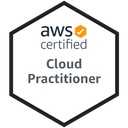
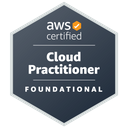
Add LFCS & LFCA & update badges

diff --git a/README.md b/README.md
@@ -11,12 +11,14 @@
 
 <!-- # 6 trophies a 141x141 -->
 
-[![KCNA: Kubernetes and Cloud Native Associate](assets/KCNA.png)](https://www.credly.com/badges/cd70dd6b-b7df-4d24-a3c4-02990dc9e3ec/public_url)
-[![CKAD: Certified Kubernetes Application Developer](assets/CKAD.png)](https://www.credly.com/badges/0e7cee9c-8955-426f-b80b-42b7c689b761/public_url)
 [![CKA: Certified Kubernetes Administrator](assets/CKA.png)](https://www.credly.com/badges/00a873b1-c4b1-4b5d-b4b0-9da4257d646b/public_url)
-[![HashiCorp Certified: Terraform Associate](assets/Terraform_Associate.png)](https://www.credly.com/badges/ecc5c6c7-6756-456c-afe5-8b5b65f14dac/public_url)
+[![CKAD: Certified Kubernetes Application Developer](assets/CKAD.png)](https://www.credly.com/badges/0e7cee9c-8955-426f-b80b-42b7c689b761/public_url)
+[![KCNA: Kubernetes and Cloud Native Associate](assets/KCNA.png)](https://www.credly.com/badges/cd70dd6b-b7df-4d24-a3c4-02990dc9e3ec/public_url)
+[![LFCS: Linux Foundation Certified Systems Administrator](assets/LFCS.png)](https://www.credly.com/badges/4ca898fa-d11b-4960-8619-f679814f7e4c/public_url)
+[![LFCA: Linux Foundation Certified IT Associate](assets/LFCA.png)](https://www.credly.com/badges/eef0fcf1-74ff-40c1-b632-7a200e08487d/public_url)
 
-[![LPIC-1: Linux Professional Institute Certification 1](assets/LPIC-1.png)](https://cs.lpi.org/caf/Xamman/certification/verify/LPI000354073/l2t2xwgudp)
-[![AWS Certified Cloud Practitioner](assets/AWS_CLF-C01.png)](https://www.credly.com/badges/337e9f61-f74f-43ab-a2c6-5a969211ebb9/public_url)
-[![AWS Certified Solutions Architect – Associate](assets/AWS_SAA-C01.png)](https://www.credly.com/badges/1231f36f-b2d6-4f38-b11d-9c3db00760af/public_url)
+[![HashiCorp Certified: Terraform Associate](assets/Terraform_Associate.png)](https://www.credly.com/badges/ecc5c6c7-6756-456c-afe5-8b5b65f14dac/public_url)
 [![Microsoft Certified: Azure Fundamentals](assets/AZ_Fundamentals.png)](https://www.credly.com/badges/f8532188-2e6b-4e23-a9be-8c41b42c6de6/public_url)
+[![LPIC-1: Linux Professional Institute Certification 1](assets/LPIC-1.png)](https://cs.lpi.org/caf/Xamman/certification/verify/LPI000354073/l2t2xwgudp)
+[![AWS Certified Solutions Architect – Associate](assets/AWS_SAA-C01.png)](https://www.credly.com/badges/1231f36f-b2d6-4f38-b11d-9c3db00760af/public_url)
+[![AWS Certified Cloud Practitioner](assets/AWS_CLF-C01.png)](https://www.credly.com/badges/337e9f61-f74f-43ab-a2c6-5a969211ebb9/public_url)
